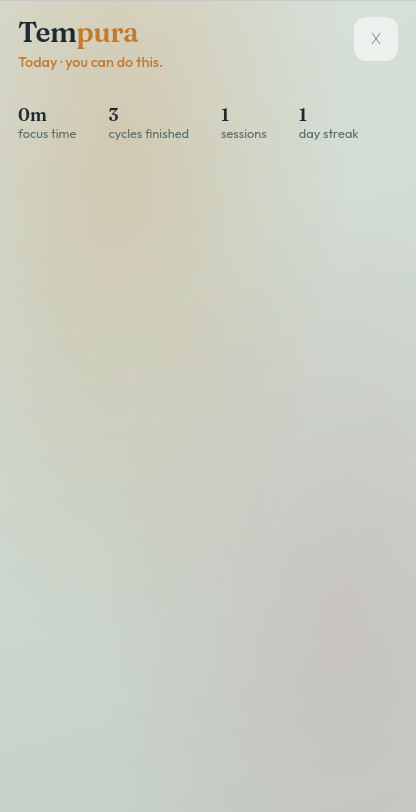
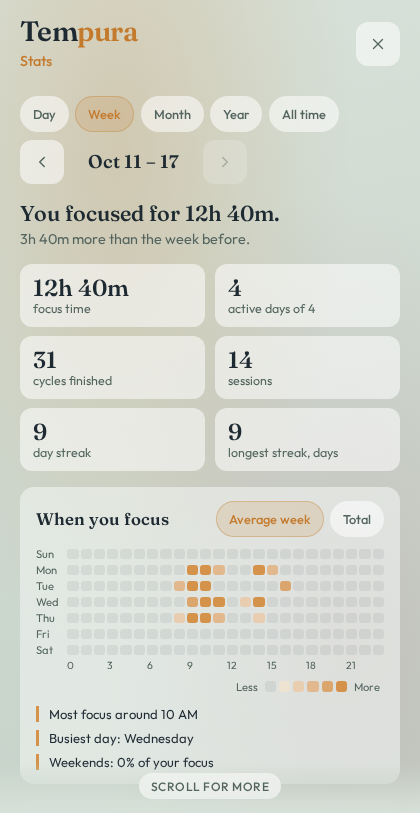
Website and README: screenshots of the new design, made by a script (#65)
* Website and README: screenshots of the new design, made by a script

The download page's gallery showed the old timer (chips, Reset and
Stop), Settings and the old Stats. It now shows the redesigned timer in
front, with the technique sheet and the Stats report behind it: variety
and the new Stats are what the redesign is about. Settings drops out.

The shots come from `deno task website:shots`: a Playwright script
(e2e/shots/, outside the test run, on its own port) that renders the app
against the e2e mock with sample data and writes website/shots/*.png at
420×813. Custom themes will need new shots; now it is one command.

The timer shot shows 6:20 left instead of 14:54, so the ring visibly
moves; site.timerAlt says so in all 15 locales.

README: the timer screenshot under the download link, the feature list
brought up to date (the technique sheet, the Stats report, today's
hours, 15 languages), `?` in the keyboard table, and the new task.

* Website: the CSS comment names the technique sheet, not settings

---------

diff --git a/e2e/shots/website.shots.ts b/e2e/shots/website.shots.ts
@@ -1,0 +1,108 @@
+import { test, type Page } from "@playwright/test";
+import { installTauriMock } from "../fixtures/tauriMock.ts";
+
+/** The website's gallery: the timer in front, the technique sheet and Stats behind it. */
+const OUT = new URL("../../website/shots/", import.meta.url).pathname;
+const SIZE = { width: 420, height: 813 };
+// Thursday 15 October 2026, mid-afternoon.
+const NOW = new Date(2026, 9, 15, 15, 20);
+
+const hourCells = (weekday: number, hours: [number, number][]) =>
+  hours.map(([hour, mins]) => ({ weekday, hour, focusSecs: mins * 60, cycles: Math.round(mins / 25) }));
+
+const week = [
+  // Monday … Thursday (today): minutes per hour.
+  hourCells(0, [[9, 50], [10, 55], [11, 30], [14, 45], [15, 25]]),
+  hourCells(1, [[8, 25], [9, 55], [10, 50], [16, 40]]),
+  hourCells(2, [[9, 40], [10, 55], [11, 55], [13, 20], [14, 50]]),
+  hourCells(3, [[8, 15], [9, 50], [10, 55], [11, 25], [14, 20]]),
+].flat();
+
+const usage = (techniqueId: string, name: string, mode: string, hours: number, finished: number, ended: number) => ({
+  techniqueId, name, mode, focusSecs: hours * 3600, sessions: ended, finished, ended,
+});
+
+const periodStats = {
+  focusSecs: week.reduce((s, c) => s + c.focusSecs, 0),
+  completedCycles: 31,
+  sessions: 14,
+  activeDays: 4,
+  longestStreak: 9,
+  buckets: [0, 1, 2, 3].map((d) => ({
+    date: `2026-10-${12 + d}`,
+    focusSecs: week.filter((c) => c.weekday === d).reduce((s, c) => s + c.focusSecs, 0),
+    completedCycles: 8,
+    sessions: 4,
+  })),
+  hours: week,
+  weekdayCounts: [1, 1, 1, 1, 1, 1, 1],
+  techniques: [
+    usage("fifty-two-seventeen", "52/17", "classic", 6.5, 5, 6),
+    usage("sprint", "Sprint", "classic", 3, 4, 5),
+    usage("flowtime", "Flowtime", "flowtime", 2.5, 0, 3),
+  ],
+  byLabel: [
+    { kind: "named", name: "Learning Tauri", techniqueId: null, focusSecs: 7 * 3600 },
+    { kind: "named", name: "Thesis, chapter 3", techniqueId: null, focusSecs: 4 * 3600 },
+    { kind: "none", name: null, techniqueId: null, focusSecs: 1 * 3600 },
+  ],
+  previous: { from: "2026-10-05", to: "2026-10-08", focusSecs: 9 * 3600, completedCycles: 22, sessions: 11, activeDays: 4 },
+  firstDay: "2026-03-10",
+};
+
+async function open(page: Page) {
+  await page.clock.setFixedTime(NOW);
+  await page.setViewportSize(SIZE);
+  await page.emulateMedia({ reducedMotion: "reduce" });
+  await installTauriMock(page, { settings: { theme: "batter", locale: "en", defaultTechniqueId: "sprint", workingOn: "Learning Tauri" } });
+  await page.addInitScript(() => {
+    const i = (window as any).__TAURI_INTERNALS__;
+    const invoke = i.invoke.bind(i);
+    i.invoke = async (cmd: string, args: any) =>
+      cmd === "get_stats" ? { focusSecsToday: 2 * 3600 + 45 * 60, completedCyclesToday: 7, sessionsToday: 3, streakDays: 9 } : invoke(cmd, args);
+  });
+  await page.goto("/");
+  await page.waitForSelector(".rhythm-card");
+  await page.evaluate((stats) => {
+    const mock = (window as any).__tempuraMock;
+    mock.setPeriodStats(stats);
+    mock.emit("stats-updated");
+  }, { ...periodStats, hours: week.filter((c) => c.weekday === 3) });
+}
+
+test("timer", async ({ page }) => {
+  await open(page);
+  await page.evaluate(() =>
+    (window as any).__tempuraMock.setSnapshot({
+      running: true, phase: "focus", remainingSecs: 6 * 60 + 20, durationSecs: 15 * 60, cycle: 2,
+      techniqueId: "sprint", techniqueName: "Sprint", workingOn: "Learning Tauri",
+    }),
+  );
+  await page.waitForTimeout(300);
+  await page.screenshot({ path: OUT + "timer.png" });
+});
+
+test("technique sheet", async ({ page }) => {
+  await open(page);
+  await page.evaluate(() =>
+    (window as any).__TAURI_INTERNALS__.invoke("create_technique", {
+      input: { name: "Writing", focusSecs: 40 * 60, shortBreakSecs: 8 * 60, longBreakSecs: 20 * 60, cyclesBeforeLong: 3, flowRatio: null, accent: null, mode: "classic" },
+    }),
+  );
+  await page.locator(".rhythm-card").click();
+  await page.locator(".sheet-option").first().hover();
+  await page.mouse.move(0, 0);
+  await page.evaluate(() => (document.activeElement as HTMLElement | null)?.blur());
+  await page.waitForTimeout(300);
+  await page.screenshot({ path: OUT + "techniques.png" });
+});
+
+test("stats", async ({ page }) => {
+  await open(page);
+  await page.evaluate((stats) => (window as any).__tempuraMock.setPeriodStats(stats), periodStats);
+  await page.locator('[data-open-panel="stats"]').click();
+  await page.waitForSelector('[role="dialog"][aria-label="Stats"]');
+  await page.evaluate(() => (document.activeElement as HTMLElement | null)?.blur());
+  await page.waitForTimeout(400);
+  await page.screenshot({ path: OUT + "stats.png" });
+});

diff --git a/website/index.html b/website/index.html
@@ -97,14 +97,14 @@
         </div>
 
         <div class="gallery" aria-hidden="true">
-          <figure class="shot shot--settings">
+          <figure class="shot shot--techniques">
             <div class="tilt">
               <div class="bezel">
                 <div class="window">
                   <div class="titlebar">
                     <span></span><span></span><span></span>
                   </div>
-                  <img src="./shots/settings.png" alt="" width="416" height="814" />
+                  <img src="./shots/techniques.png" alt="" width="420" height="813" />
                 </div>
               </div>
             </div>
@@ -116,7 +116,7 @@
                   <div class="titlebar">
                     <span></span><span></span><span></span>
                   </div>
-                  <img src="./shots/stats.png" alt="" width="416" height="812" />
+                  <img src="./shots/stats.png" alt="" width="420" height="813" />
                 </div>
               </div>
             </div>
@@ -131,8 +131,8 @@
                   <img
                     src="./shots/timer.png"
                     data-i18n-attr="alt:site.timerAlt"
-                    alt="Tempura timer on Sprint: 14:54 remaining, working on Learning Tauri"
-                    width="417"
+                    alt="Tempura timer on Sprint: 6:20 remaining, working on Learning Tauri"
+                    width="420"
                     height="813"
                   />
                 </div>

diff --git a/website/styles.css b/website/styles.css
@@ -481,7 +481,7 @@ a:hover {
   animation: rise 1s var(--ease) both;
 }
 
-.shot--settings,
+.shot--techniques,
 .shot--stats {
   display: none;
 }
@@ -706,7 +706,7 @@ a:hover {
     display: block;
   }
 
-  .shot--settings,
+  .shot--techniques,
   .shot--stats {
     display: block;
     width: 210px;
@@ -721,14 +721,14 @@ a:hover {
     animation: rise 1s var(--ease) 0.22s both;
   }
 
-  .shot--settings {
+  .shot--techniques {
     left: 4%;
     top: 88px;
     z-index: 1;
     animation: rise 1s var(--ease) 0.08s both;
   }
 
-  .shot--settings .tilt {
+  .shot--techniques .tilt {
     transform: rotate(-7deg);
   }
 
@@ -743,8 +743,8 @@ a:hover {
     transform: rotate(6deg);
   }
 
-  /* Fan toward the copy: settings sits on the copy side in both dirs. */
-  [dir="rtl"] .shot--settings {
+  /* Fan toward the copy: the technique sheet sits on the copy side in both dirs. */
+  [dir="rtl"] .shot--techniques {
     left: auto;
     right: 4%;
   }
@@ -754,7 +754,7 @@ a:hover {
     left: 6%;
   }
 
-  [dir="rtl"] .shot--settings .tilt {
+  [dir="rtl"] .shot--techniques .tilt {
     transform: rotate(7deg);
   }
 
@@ -802,7 +802,7 @@ a:hover {
     transition: none !important;
   }
 
-  .shot--settings .tilt,
+  .shot--techniques .tilt,
   .shot--stats .tilt {
     transform: none;
   }

diff --git a/e2e/shots/playwright.config.ts b/e2e/shots/playwright.config.ts
@@ -1,0 +1,21 @@
+import { defineConfig, devices } from "@playwright/test";
+
+/**
+ * Screenshots for the website (`deno task website:shots`), not tests: they render
+ * the app against the e2e mock with sample data and write website/shots/*.png.
+ * Own port and server, so a running dev server can't be picked up by mistake.
+ */
+export default defineConfig({
+  testDir: ".",
+  testMatch: /\.shots\.ts$/,
+  workers: 1,
+  reporter: "list",
+  use: { baseURL: "http://127.0.0.1:1425", ...devices["Desktop Chrome"], deviceScaleFactor: 1 },
+  webServer: {
+    command: "deno run -A --node-modules-dir npm:vite --host 127.0.0.1 --port 1425 --strictPort",
+    cwd: "../..",
+    url: "http://127.0.0.1:1425",
+    reuseExistingServer: false,
+    timeout: 120_000,
+  },
+});

diff --git a/README.md b/README.md
@@ -18,6 +18,10 @@ Timing matters. Tempura stays calm, polished, and entirely on your machine: **no
 
 Windows SmartScreen and macOS Gatekeeper may warn on first open (unsigned builds).
 
+<p align="center">
+  <img src="website/shots/timer.png" alt="Tempura timer on Sprint: 6:20 left, working on Learning Tauri, with today's focus hour by hour below" width="300" />
+</p>
+
 ## Develop
 
 [Deno](https://deno.land/) 2.x and Rust stable ([Tauri prerequisites](https://v2.tauri.app/start/prerequisites/)):
@@ -27,15 +31,18 @@ deno install
 deno task tauri:dev
 ```
 
+`deno task website:shots` renders the website's screenshots (`website/shots/`) from the app with sample data.
+
 If Ctrl+C leaves Vite on port 1420, `deno task free-dev-port` stops that leftover only (not whatever else might be bound there). `tauri:dev` does the same check first.
 
 ## Features
 
-- **Techniques**: Classic (25/5), Sprint (15/3), Deep (50/10), 52/17, Ultradian (90/20), Flowtime, Hybrid, plus custom rhythms
+- **Techniques**: Classic (25/5), Sprint (15/3), Deep (50/10), 52/17, Ultradian (90/20), Flowtime, Hybrid, plus your own; the technique sheet shows each one's rhythm side by side
 - **Session**: countdown owned by the native side (correct while hidden / across sleep)
 - **Tray**: close the window to hide; quit from the tray or Settings
 - **Notifications**: phase complete; optional sound and halfway tick
-- **Local stats**, themes, and optional updates from GitHub Releases (About)
+- **Stats**: any day, week, month, year or all time, compared with the period before; when you focus (weekday × hour), which rhythm suits you, what the time went to; CSV/JSON export. Today's focus, hour by hour, sits under the timer
+- **Themes**, 15 languages (including right-to-left), and optional updates from GitHub Releases (Help & About)
 
 ### Keyboard
 
@@ -45,6 +52,7 @@ If Ctrl+C leaves Vite on port 1420, `deno task free-dev-port` stops that leftove
 | `S` | Skip phase |
 | `,` or `Ctrl+,` | Settings |
 | `Esc` | Back / hide to tray |
+| `?` | All keyboard shortcuts |
 
 Keyboard and dialogs are first-class. Screen readers on the timer UI should work; tray and OS notifications depend on the OS.
 
